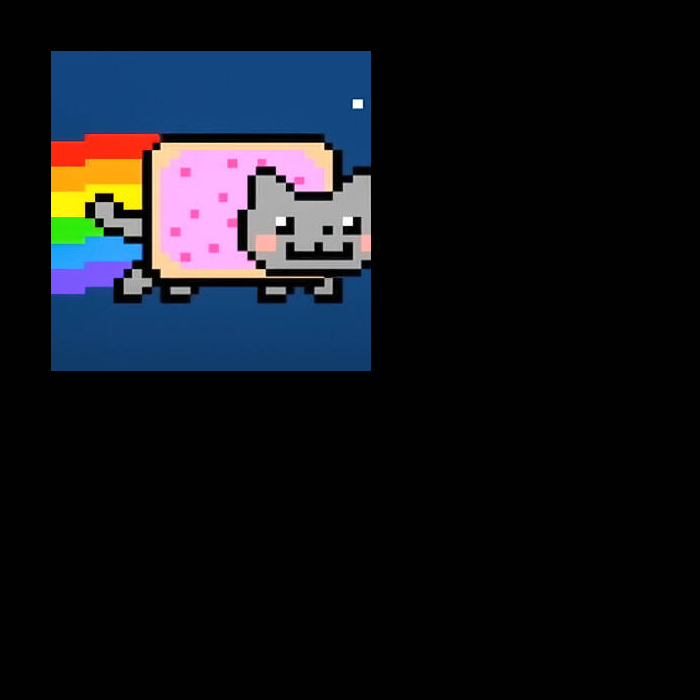
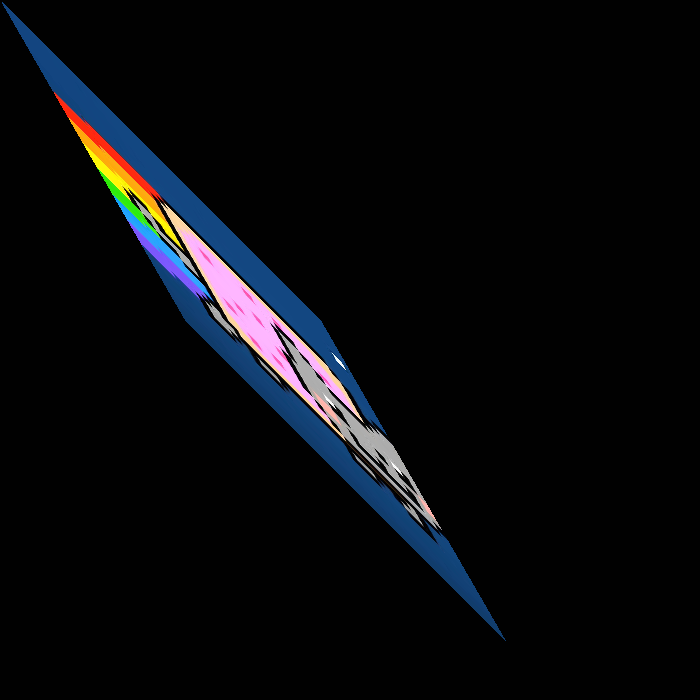
lab2

Changed region(s): [[0.0, 0.0, 0.72, 0.9]]

diff --git a/lab2/lab2_2.py b/lab2/lab2_2.py
@@ -1,0 +1,143 @@
+import cv2 as cv
+import numpy as np
+import matplotlib.pyplot as plt
+
+def DCF(n):
+    length = len(n)
+    ll = []
+    for i in range(length):
+        if i ==0:
+            ll.append(n[i])
+        elif i == length-1:
+            tmp = ll[- 1] + n[i]
+            ll.append(tmp)
+            return ll
+        else:
+            tmp = ll[- 1] + n[i]
+            ll.append(tmp)
+
+def max_min(image):
+    list = []
+    min_max=[]
+
+    for i in range(h):
+        for j in range(w):
+            list.append(image[i][j][0])
+
+    min_max.extend([max(list),min(list)])
+    return min_max
+
+def hist2(image):
+    i=0
+    Y, U, V = cv.split(image)
+    hist_YUV = cv.calcHist([Y], [0], None, [256], [0, 256])
+    print(i)
+
+    return hist_YUV
+
+def hist(image):
+    i=0
+    Y, U, V = cv.split(image)
+    hist_YUV = cv.calcHist([Y], [0], None, [256], [0, 256])
+    print(i)
+
+    return hist_YUV
+
+image_orig = cv.imread('pic/pic1.jpg')
+image_peresvet = cv.imread('pic/peresvet3.jpg')
+image_dark = cv.imread('pic/dark.jpg')
+image_low_k = cv.imread('pic/low_k.jpg')
+
+cv.imshow("orig_before", image_orig)
+cv.imshow("peresvet_before", image_peresvet)
+cv.imshow("dark_before", image_dark)
+cv.imshow("low_k_before", image_low_k)
+
+h, w = image_low_k.shape[:2]
+
+image_orig_YUV = cv.cvtColor(image_orig, cv.COLOR_BGR2YUV)
+image_peresvet_YUV = cv.cvtColor(image_peresvet, cv.COLOR_BGR2YUV)
+image_dark_YUV = cv.cvtColor(image_dark, cv.COLOR_BGR2YUV)
+image_low_k_YUV = cv.cvtColor(image_low_k, cv.COLOR_BGR2YUV)
+
+list_of_image=[]
+list_of_name_of_image_before=[]
+list_of_name_of_image_after=[]
+list_of_plot_of_image=[]
+list_of_plot_of_image_after=[]
+list_of_name_of_image_before.extend(['hist_orig_YUV_before','hist_peresvet_YUV_before','hist_dark_YUV_before','hist_low_k_YUV_before'])
+list_of_plot_of_image.extend([hist(image_orig_YUV),hist(image_peresvet_YUV),hist(image_dark_YUV),hist(image_low_k_YUV)])
+list_of_image.extend([image_orig_YUV,image_peresvet_YUV,image_dark_YUV,image_low_k_YUV])
+
+for i in range(len(list_of_name_of_image_before)):
+    plt.figure(i+1)
+    plt.title(list_of_name_of_image_before[i])
+    plt.plot(list_of_plot_of_image[i], '#FF7382')
+
+# for i in range(len(list_of_name_of_image_before)):
+#     hist = np.bincount(list_of_image[i].ravel(), minlength=256).tolist()
+#     ll = DCF(hist)
+#     ll = np.round(np.float32(ll) / (list_of_image[i].shape[0] * list_of_image[i].shape[1]), 4)
+#     plt.figure(list_of_name_of_image_before[i]+"DCF", facecolor="lightgray")
+#     plt.title("DCF")
+#     plt.xlabel("index", fontsize=14)
+#     plt.ylabel("value", fontsize=14)
+#     plt.tick_params(labelsize=10)
+#     plt.grid(linestyle=':')
+#     plt.plot(range(0, 256), ll, c='dodgerblue', label=r'$P(rk)=n1+n2+n3+...Nk $')
+#     plt.legend()
+
+
+max_x_orig=max_min(image_orig_YUV)[0]
+min_x_orig=max_min(image_orig_YUV)[1]
+
+max_x_peresvet=max_min(image_peresvet_YUV)[0]
+min_x_peresvet=max_min(image_peresvet_YUV)[1]
+
+max_x_dark=max_min(image_dark_YUV)[0]
+min_x_dark=max_min(image_dark_YUV)[1]
+
+max_x_low_k=max_min(image_low_k_YUV)[0]
+min_x_low_k=max_min(image_low_k_YUV)[1]
+
+image_orig_YUV_after=image_orig_YUV
+
+for i in range(h):
+    for j in range(w):
+        image_orig_YUV_after[i][j][0] = ((image_orig_YUV[i][j][0] - min_x_orig) / (max_x_orig - min_x_orig)) * (255 - 0) + 0
+        image_peresvet_YUV[i][j][0] = ((image_peresvet_YUV[i][j][0] - min_x_peresvet) / (max_x_peresvet - min_x_peresvet)) * (180 - 0) + 0
+        image_dark_YUV[i][j][0] = ((image_dark_YUV[i][j][0] - min_x_dark) / (max_x_dark - min_x_dark)) * (250 - 0) + 0
+        image_low_k_YUV[i][j][0] = ((image_low_k_YUV[i][j][0] - min_x_low_k) / (max_x_low_k - min_x_low_k)) * (255 - 0) + 0
+
+cv.imshow("orig_after",cv.cvtColor(image_orig_YUV, cv.COLOR_YUV2BGR))
+cv.imshow("peresvet_after",cv.cvtColor(image_peresvet_YUV, cv.COLOR_YUV2BGR))
+cv.imshow("dark_after",cv.cvtColor(image_dark_YUV, cv.COLOR_YUV2BGR))
+cv.imshow("low_k_after",cv.cvtColor(image_low_k_YUV, cv.COLOR_YUV2BGR))
+
+
+list_of_name_of_image_after.extend(['hist_orig_YUV_after','hist_peresvet_YUV_after','hist_dark_YUV_after','hist_low_k_YUV_after'])
+list_of_plot_of_image_after.extend([hist2(image_orig_YUV),hist2(image_peresvet_YUV),hist2(image_dark_YUV),hist2(image_low_k_YUV)])
+list_of_image.extend([image_orig_YUV,image_peresvet_YUV,image_dark_YUV,image_low_k_YUV])
+
+
+for i in range(len(list_of_name_of_image_after)):
+    plt.figure(i+6)
+    plt.title(list_of_name_of_image_after[i])
+    plt.plot(list_of_plot_of_image_after[i], '#75B1FF')
+
+# for i in range(len(list_of_name_of_image_after)):
+#     hist = np.bincount(list_of_image[i].ravel(), minlength=256).tolist()
+#     ll = DCF(hist)
+#     ll = np.round(np.float32(ll) / (list_of_image[i].shape[0] * list_of_image[i].shape[1]), 4)
+#     plt.figure(list_of_name_of_image_after[i]+"DCF", facecolor="#BCBCBC")
+#     plt.title("DCF2")
+#     plt.xlabel("index", fontsize=14)
+#     plt.ylabel("value", fontsize=14)
+#     plt.tick_params(labelsize=10)
+#     plt.grid(linestyle=':')
+#     plt.plot(range(0, 256), ll, c='#A362FF', label=r'$P(rk)=n1+n2+n3+...Nk $')
+#     plt.legend()
+
+plt.show()
+
+cv.waitKey(0)

diff --git a/lab2/lab2_1.py b/lab2/lab2_1.py
@@ -1,0 +1,62 @@
+import cv2 as cv
+import numpy as np
+import matplotlib.pyplot as plt
+
+image = cv.imread('pic/ap.jpg')
+#cv.imshow("pic",image)
+h,w = image.shape[:2]
+
+RGB_image = cv.cvtColor(image,cv.COLOR_BGR2RGB)
+blue, green, red = cv.split(image)
+
+#cv.imshow("sd",blue)
+colors = ['#FF7382','#9CFF8C','#75B1FF']
+
+plt.hist([red.ravel(),green.ravel(),blue.ravel()], 256, [0, 256], color=[colors[0], colors[1], colors[2]])
+plt.title ("Гистограмма plt")
+
+hist_blue = cv.calcHist([blue], [0], None, [256], [0, 256])
+hist_green = cv.calcHist([green], [0], None, [256], [0, 256])
+hist_red = cv.calcHist([red], [0], None, [256], [0, 256])
+#hist_cv=cv.calcHist([image],[0,1,2], None, [256,256,256], [0, 256,0, 256,0, 256] )
+
+plt.figure ()
+plt.title ("Гистограмма opencv")
+plt.plot (hist_blue,colors[2])
+plt.plot(hist_green,colors[1])
+plt.plot(hist_red,colors[0])
+
+axis_x_r = np.zeros((256), dtype=int)
+axis_x_g = np.zeros((256), dtype=int)
+axis_x_b = np.zeros((256), dtype=int)
+
+p= np.arange(256)
+
+for i in range(h):
+    for j in range(w):
+        axis_x_r[image[i][j][0]]+=1
+        axis_x_g[image[i][j][1]] += 1
+        axis_x_b[image[i][j][2]] += 1
+
+for i in range(256):
+    axis_x_r[i]/=100
+    axis_x_g[i]/=100
+    axis_x_b[i] /= 100
+r = np.c_[p,axis_x_r]
+g=np.c_[p,axis_x_g]
+b=np.c_[p,axis_x_b]
+
+M1 = np.float32([ [2, 0  , 0],
+              [0,   1, 0],
+              [0,   0,   1] ])
+black = np.ones((1400,256,3), dtype=float)
+hist_hand_r = cv.warpPerspective(cv.polylines(black,[r],False,(255, 0, 0),1),M1,(256*2,int(1400/3)))
+hist_hand_g = cv.warpPerspective(cv.polylines(black,[g],False,(0, 255, 0),1),M1,(256*2,int(1400/3)))
+hist_hand_b = cv.warpPerspective(cv.polylines(black,[b],False,(0, 0, 255),1),M1,(256*2,int(1400/3)))
+cv.imshow("hand hist",hist_hand_r[::-1,:,:])
+cv.imshow("hand hist",hist_hand_g[::-1,:,:])
+cv.imshow("hand hist",hist_hand_b[::-1,:,:])
+
+
+plt.show()
+cv.waitKey(0)

diff --git a/lab1/lab1_4.py b/lab1/lab1_4.py
@@ -12,6 +12,7 @@ center = w//2, h//2
 M = np.float32([[1, 0, 100], [0, 1, 100]])
 image_dst = cv.warpAffine(image, M, (int(w*1.5),int(h*1.5)))
 cv.imshow('Изображение, сдвинутое вправо и вниз', image_dst)
+cv.imwrite('pic/rotation.png',image_dst)
 
 #поворот
 angle = np.radians(20)
@@ -21,21 +22,17 @@ cv.imshow('Поворот', cv.warpPerspective(image, M, (int(w*1.5),int(h*1.5))
 cv.imwrite('/pic/rotation.png'
 'Rotation with warpPerspective(20).jpg', cv.warpPerspective(image, M, (w, h)))
 
-center = (int(w / 2), int(h / 2))
-rotation_matrix = cv.getRotationMatrix2D(center, -45, 0.6)
-image_rotated = cv.warpAffine(image, rotation_matrix, (int(w*1.5),int(h*1.5)))
-cv.imshow('Поворот', image_rotated)
 
 #масштабирование
 M1 = np.float32([ [2, 0  , 0],
               [0,   2, 0],
               [0,   0,   1] ])
-image_scale = cv.warpPerspective(image,M1,(int(w*1.5),int(h*1.5)))
+image_scale = cv.warpPerspective(image,M1,(int(w*2),int(h*2)))
 cv.imshow('Масштаб', image_scale)
-
+cv.imwrite('pic/scale.png',image_scale)
 #сдвиг
 M = np.float32([ [1, 0.5, 0], [0, 1 , 0], [0, 0 , 1] ])
 sheared_img = cv.warpPerspective(image,M,(int(w*1.5),int(h*1.5)))  # отключить оси x и y 28. plt.axis('off') 29. # show the resulting image 30. plt.imshow(sheared_img)
 cv.imshow('Сдвиг', sheared_img)
-
+cv.imwrite('/pic/sdvig.png',sheared_img)
 cv.waitKey(0)

diff --git a/lab1/lab1_5.py b/lab1/lab1_5.py
@@ -29,14 +29,21 @@ black = np.ones((700,700,3), dtype=float)
 ll = np.ones((1,3), dtype=int)
 C=[]
 
+#исходное
+#
+# T=np.array([
+#     [1,0,0],
+#     [0, 1,0],
+#     [0, 0,1]
+# ])
 
 #передвижение
 
-T=np.array([
-    [1,0,0],
-    [0, 1,0],
-    [50, 50,1]
-])
+# T=np.array([
+#     [1,0,0],
+#     [0, 1,0],
+#     [50, 50,1]
+# ])
 
 #масштабирование
 
@@ -47,7 +54,7 @@ T=np.array([
 # ])
 
 #поворот
-
+#
 # T=np.array([
 #     [np.cos(np.pi/6),np.sin(np.pi/6),0],
 #     [-np.sin(np.pi/6), np.cos(np.pi/6),0],
@@ -57,11 +64,11 @@ T=np.array([
 
 #сдвиг
 
-# T=np.array([
-#     [1,np.tan(np.pi/4),0],
-#     [np.tan(np.pi/6), 1,0],
-#     [0, 0,1]
-# ])
+T=np.array([
+    [1,np.tan(np.pi/4),0],
+    [np.tan(np.pi/6), 1,0],
+    [0, 0,1]
+])
 
 
 for i in range(1,h+1):
